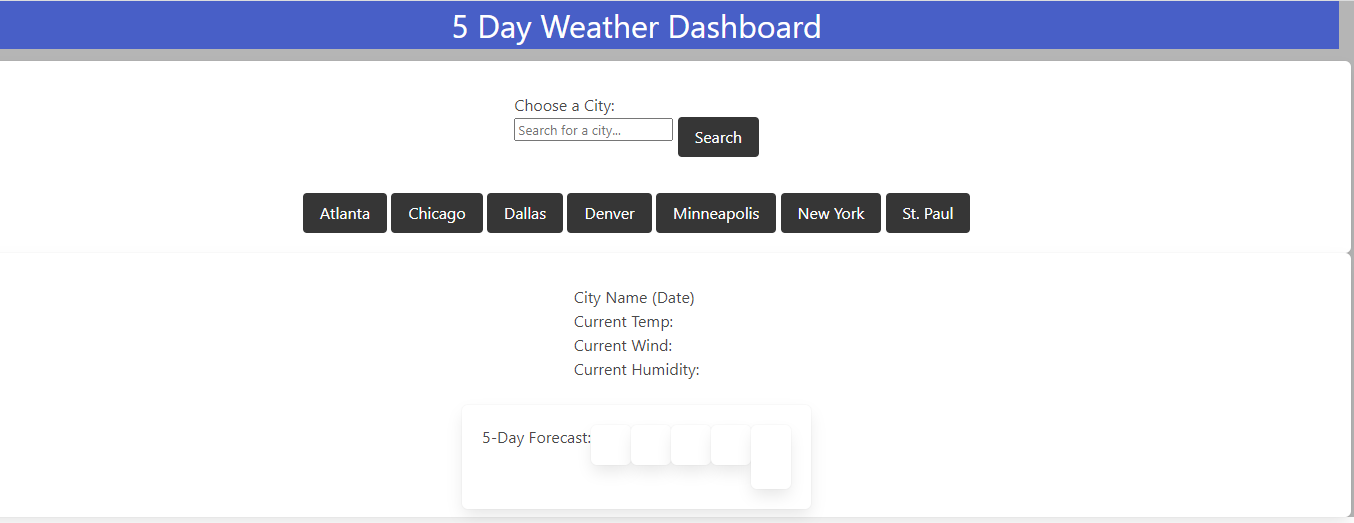
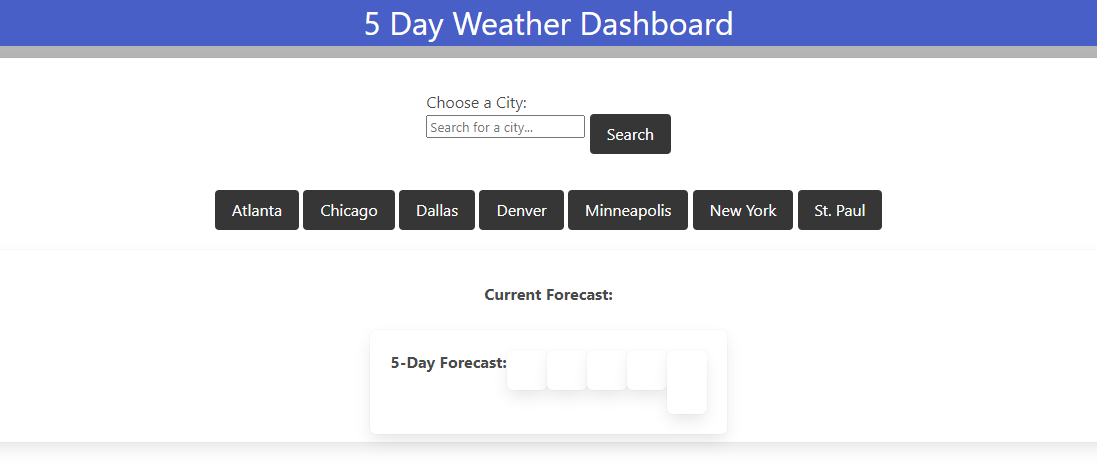
updated readme images

diff --git a/Assets/script.js b/Assets/script.js
@@ -31,7 +31,8 @@ var getLatLon = function (event) {
         //console.log(lat);
         //console.log(lon);
        // onsole.log(latLon);
-        fetchWeather(lat, lon);
+        fetchCurrentWeather(lat, lon);
+        fetchWeatherForecast(lat, lon);
       });
   };
 };
@@ -41,7 +42,7 @@ searchBtn.addEventListener("click", getLatLon);
 //-----------------------------------------------------CURRENT WEATHER-----------------------------------------------------//
 
 
-function fetchWeather(lat, lon) {
+function fetchCurrentWeather(lat, lon) {
   // var latLon = 'lat=44.9772995&lon=-93.2654692';
   var latLon = "lat=" + lat + "&lon=" + lon;
   var currentWeather = 'https://api.openweathermap.org/data/2.5/weather?' + latLon + '&appid=a8b255a467db2ae7a256c9499b3b3509&units=imperial';
@@ -61,7 +62,9 @@ function fetchWeather(lat, lon) {
       temp = (data.main.temp) + " F";
       wind = (data.wind.speed) + " MPH";
       humidity = (data.main.humidity) + " %";
+      //icon = 'https://openweathermap.org/img/wn/' + (data.weather[0].icon) + '.png';
       icon = (data.weather[0].icon);
+    
       console.log(icon);
       console.log(date);
       console.log(city);
@@ -82,7 +85,7 @@ function fetchWeather(lat, lon) {
 //-----------------------------------------------------5 Day/ 3Hr WEATHER-----------------------------------------------------//
 
 
-function fetchWeather(lat, lon) {
+function fetchWeatherForecast(lat, lon) {
 var latLon = "lat=" + lat + "&lon=" + lon;
 var futureWeather = 'https://api.openweathermap.org/data/2.5/forecast?' + latLon + '&appid=a8b255a467db2ae7a256c9499b3b3509&units=imperial';
 
@@ -91,28 +94,38 @@ fetch(futureWeather)
     return response.json();
   })
   .then(function (data) {
-    //console.log(data);
+    console.log(data);
     date1 = (data.list[4].dt_txt);
+    icon1 = (data.list[4].weather[0].icon);
     temp1 = (data.list[4].main.temp) + " F";
     wind1 = (data.list[4].wind.speed) + " MPH";
     humidity1 = (data.list[4].main.humidity) + " %";
     date2 = (data.list[12].dt_txt);
+    icon2 = (data.list[12].weather[0].icon);
     temp2 = (data.list[12].main.temp) + " F";
     wind2 = (data.list[12].wind.speed) + " MPH";
     humidity2 = (data.list[12].main.humidity) + " %";
     date3 = (data.list[20].dt_txt);
+    icon3 = (data.list[20].weather[0].icon);
     temp3 = (data.list[20].main.temp) + " F";
     wind3 = (data.list[20].wind.speed) + " MPH";
     humidity3 = (data.list[20].main.humidity) + " %";
     date4 = (data.list[28].dt_txt);
+    icon4 = (data.list[28].weather[0].icon);
     temp4 = (data.list[28].main.temp) + " F";
     wind4 = (data.list[28].wind.speed) + " MPH";
     humidity4 = (data.list[28].main.humidity) + " %";
     date5 = (data.list[36].dt_txt);
+    icon5 = (data.list[36].weather[0].icon);
     temp5 = (data.list[36].main.temp) + " F";
     wind5 = (data.list[36].wind.speed) + " MPH";
     humidity5 = (data.list[36].main.humidity) + " %";
 
+    console.log(icon1);
+    console.log(icon2);
+    console.log(icon3);
+    console.log(icon4);
+    console.log(icon5);
     console.log(date1);
     console.log(temp1);
     console.log(wind1);
@@ -135,26 +148,31 @@ fetch(futureWeather)
     console.log(humidity5);
 
     document.getElementById('date1').innerHTML = "<b>Date:</b>  " + date1;
+    document.getElementById('icon1').innerHTML = icon1;
     document.getElementById('temp1').innerHTML = "<b>Temperature:</b>  " + temp1;
     document.getElementById('wind1').innerHTML = "<b>Wind:</b>  " + wind1;
     document.getElementById('hum1').innerHTML = "<b>Humidity:</b>  " + humidity1;
 
     document.getElementById('date2').innerHTML = "<b>Date:</b>  " + date2;
+    document.getElementById('icon2').innerHTML = icon2;
     document.getElementById('temp2').innerHTML = "<b>Temperature:</b>  " + temp2;
     document.getElementById('wind2').innerHTML = "<b>Wind:</b>  " + wind2;
     document.getElementById('hum2').innerHTML = "<b>Humidity:</b>  " + humidity2;
 
     document.getElementById('date3').innerHTML = "<b>Date:</b>  " + date3;
+    document.getElementById('icon3').innerHTML = icon3;
     document.getElementById('temp3').innerHTML = "<b>Temperature:</b>  " + temp3;
     document.getElementById('wind3').innerHTML = "<b>Wind:</b>  " + wind3;
     document.getElementById('hum3').innerHTML = "<b>Humidity:</b>  " + humidity3;
 
     document.getElementById('date4').innerHTML = "<b>Date:</b>  " + date4;
+    document.getElementById('icon4').innerHTML = icon4;
     document.getElementById('temp4').innerHTML = "<b>Temperature:</b>  " + temp4;
     document.getElementById('wind4').innerHTML = "<b>Wind:</b>  " + wind4;
     document.getElementById('hum4').innerHTML = "<b>Humidity:</b>  " + humidity4;
 
     document.getElementById('date5').innerHTML = "<b>Date:</b>  " + date5;
+    document.getElementById('icon5').innerHTML = icon5;
     document.getElementById('temp5').innerHTML = "<b>Temperature:</b>  " + temp5;
     document.getElementById('wind5').innerHTML = "<b>Wind:</b>  " + wind5;
     document.getElementById('hum5').innerHTML = "<b>Humidity:</b>  " + humidity5;

diff --git a/index.html b/index.html
@@ -38,16 +38,19 @@
 
     <div class="box columns is-flex-direction-column is-align-items-center">
         <section class="block column">
-            <h1 id = "city">City Name (Date)</h1>
+            <div>
+                <h1><b>Current Forecast:</b></h1>
+            </div>
+            <h1 id = "city"></h1>
             <h3 id = "icon"></h3>
-            <h3 id = "curTemp">Current Temp: </h3>
-            <h3 id = "curWind">Current Wind: </h3>
-            <h3 id = "curHum">Current Humidity: </h3>
+            <h3 id = "curTemp"></h3>
+            <h3 id = "curWind"></h3>
+            <h3 id = "curHum"></h3>
         </section>
 
         <section class="block columns box">
             <div>
-                <h1>5-Day Forecast:</h1>
+                <h1><b>5-Day Forecast:</b></h1>
             </div>
             <div class="box block">
                 <h1 id = "date1"></h1>

diff --git a/README.md b/README.md
@@ -23,6 +23,7 @@ No usage instructions necessary, the webiste was designed with simplicy and ease
 Website found here:   https://swmcguire.github.io/WeatherApp/
 
 ![Initial Weather Screen](./Assets/Images/WeatherApp1.PNG)
+![Minneapolis Weather Screen](./Assets/Images/WeatherApp2.PNG)
 
 ## Credits
 
